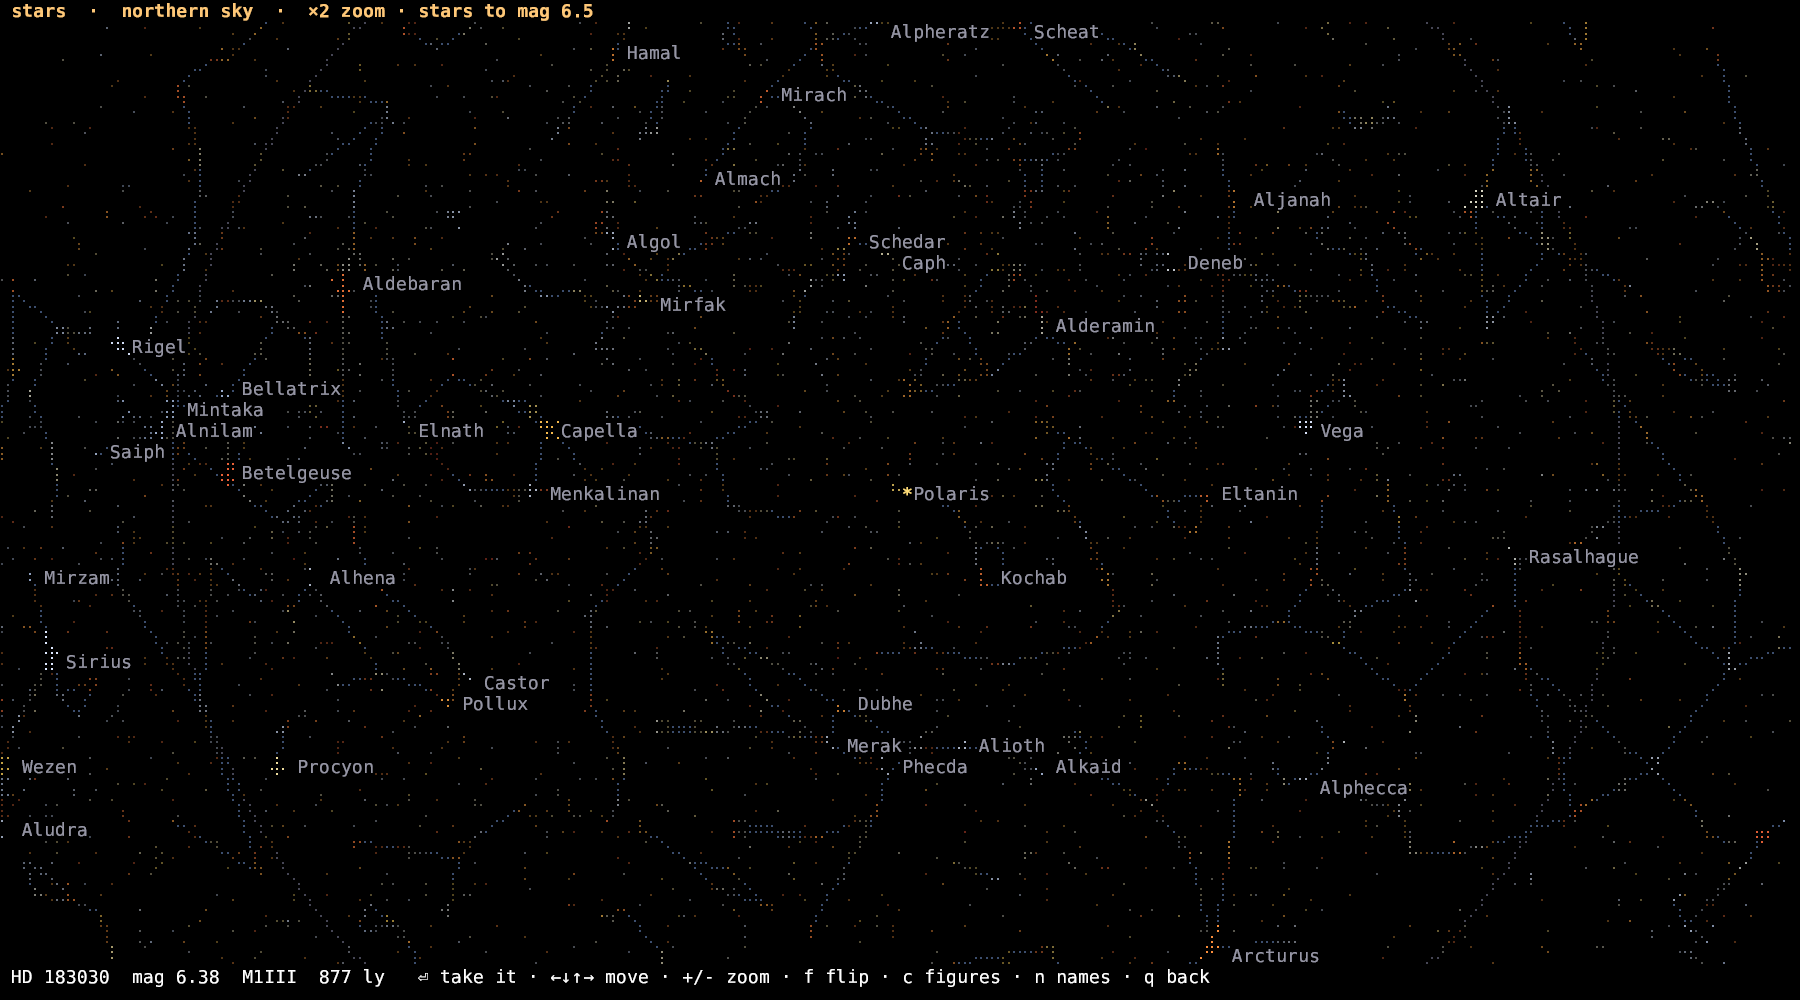
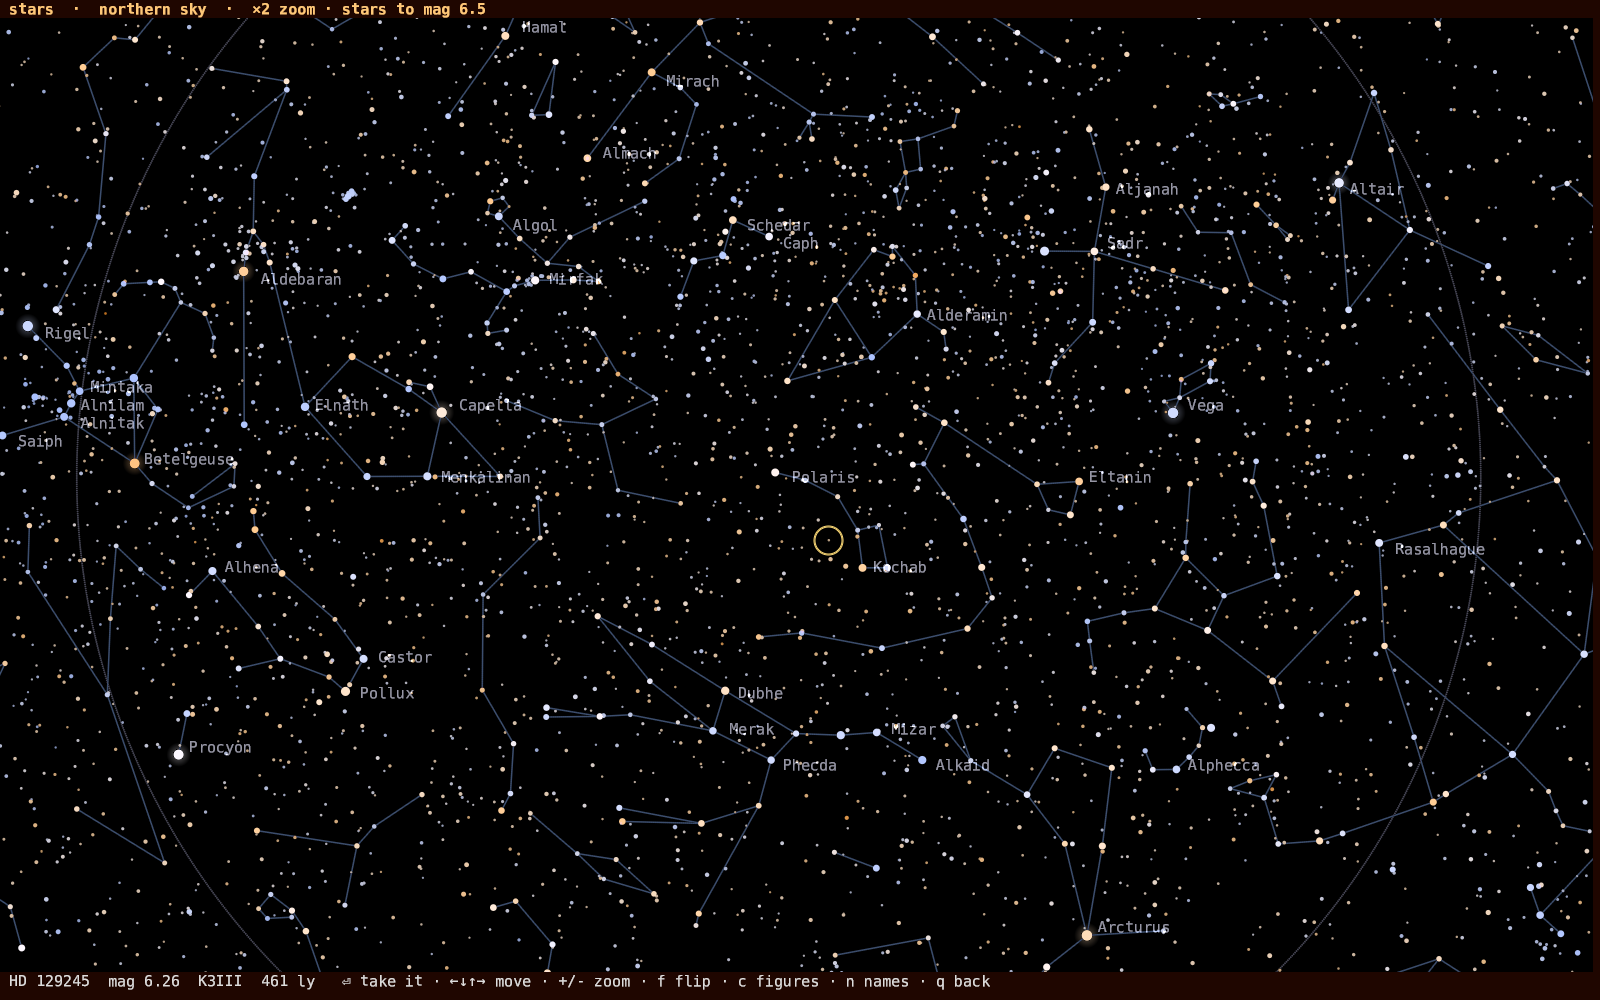
stars 0.2.2: black-body colours, and the diagram in real pixels
Colours come from starmap now: a star is drawn in its own black-body
colour, the class legend in a typical member's, the temperature axis
in the same ramp, so the diagram and the sky agree. Where the terminal
shows images the plot is a picture: the tracks as lines, the stars as
discs sized by brightness, the selected one ringed; the picture comes
down for the list popup, the sky picker and on the way out. Cells stay
elsewhere. The sky picker is starmap's, now in pixels too.

diff --git a/src/main.rs b/src/main.rs
@@ -74,6 +74,8 @@ struct App {
     view: View,
     menu_ix: usize,
     chat: Vec<(String, String)>,
+    /// The diagram as a picture, where the terminal shows images.
+    pixels: std::cell::RefCell<Option<glow::Display>>,
 }
 
 impl App {
@@ -175,6 +177,7 @@ fn main() {
         view: View::Article,
         menu_ix: 0,
         chat: Vec::new(),
+        pixels: Default::default(),
     };
     app.build_cells();
     app.cell_ix = app.cur_cell_stars().iter().position(|&i| i == app.sel).unwrap_or(0);
@@ -377,6 +380,7 @@ fn main() {
                 set_detail(&app, &mut detail, cols);
             }
             "u" => {
+                hide_diagram(&app);
                 Crust::cleanup();
                 println!("stars: rebuilding the catalog …");
                 let result = fetch::fetch_all();
@@ -417,6 +421,7 @@ fn main() {
         }
     }
 
+    hide_diagram(&app);
     Crust::cleanup();
 }
 
@@ -557,6 +562,7 @@ fn pick_list(
         .collect();
     let w = 96.min(cols.saturating_sub(4));
     let h = (lines.len() as u16).min(rows.saturating_sub(6)).max(1);
+    hide_diagram(app);
     let mut pop = Popup::centered(w, h, 253, 236);
     // Open on the star we are already showing, so the list is a place to
     // walk from rather than a fresh start.
@@ -693,21 +699,22 @@ fn select(app: &mut App, new: usize, detail: &mut Pane, cols: u16) {
 
 /// True-ish colors for the spectral classes, from blue O to red M.
 fn class_rgb(c: char) -> (u8, u8, u8) {
-    match c {
-        // Saturated a little past the true colors: on a black terminal
-        // the real A/F whites are indistinguishable from each other.
-        'O' => (120, 150, 255),
-        'B' => (160, 195, 255),
-        'A' => (225, 235, 255),
-        'F' => (255, 245, 200),
-        'G' => (255, 215, 90),
-        'K' => (255, 150, 60),
-        'M' => (255, 90, 60),
-        'C' | 'S' | 'R' => (255, 90, 60), // carbon stars
-        'W' => (200, 210, 255),           // Wolf-Rayet
-        'L' | 'T' | 'Y' => (170, 80, 90), // brown dwarfs
-        _ => (150, 150, 150),
-    }
+    // The black-body colour of a typical star of the class; the odd ones
+    // by what they look like.
+    let teff = match c {
+        'O' => 35000.0,
+        'B' => 15000.0,
+        'A' => 8500.0,
+        'F' => 6500.0,
+        'G' => 5600.0,
+        'K' => 4400.0,
+        'M' => 3300.0,
+        'W' => 45000.0,             // Wolf-Rayet
+        'C' | 'S' | 'R' => 2800.0,  // carbon stars
+        'L' | 'T' | 'Y' => 1600.0,  // brown dwarfs
+        _ => return (150, 150, 150),
+    };
+    starmap::teff_rgb(teff)
 }
 
 const CLASS_LEGEND: [(&str, char); 7] = [
@@ -731,32 +738,10 @@ const SRC_LEGEND: [(&str, (u8, u8, u8)); 3] = [
     ("from magnitude", (170, 150, 200)),
 ];
 
-/// The color a star of this temperature shows, interpolated across the
-/// spectral classes so the temperature axis reads as a real spectrum.
+/// The colour a star of this temperature shows: a black body's, from
+/// starmap, the same as the sky draws.
 fn teff_rgb(teff: f64) -> (u8, u8, u8) {
-    const STOPS: [(f64, (u8, u8, u8)); 7] = [
-        (40000.0, (120, 150, 255)),
-        (20000.0, (160, 195, 255)),
-        (9700.0, (225, 235, 255)),
-        (7200.0, (255, 245, 200)),
-        (5800.0, (255, 215, 90)),
-        (4400.0, (255, 150, 60)),
-        (3000.0, (255, 90, 60)),
-    ];
-    let t = teff.clamp(3000.0, 40000.0);
-    for w in STOPS.windows(2) {
-        let (t0, c0) = w[0];
-        let (t1, c1) = w[1];
-        if t <= t0 && t >= t1 {
-            let f = (t0.ln() - t.ln()) / (t0.ln() - t1.ln());
-            return (
-                (c0.0 as f64 + (c1.0 as f64 - c0.0 as f64) * f) as u8,
-                (c0.1 as f64 + (c1.1 as f64 - c0.1 as f64) * f) as u8,
-                (c0.2 as f64 + (c1.2 as f64 - c0.2 as f64) * f) as u8,
-            );
-        }
-    }
-    STOPS[0].1
+    starmap::teff_rgb(teff)
 }
 
 fn gradient(t: f64) -> (u8, u8, u8) {
@@ -829,7 +814,8 @@ fn star_rgb(app: &App, s: &Star) -> (u8, u8, u8) {
             (Src::Spectral, _) | (Src::Color, _) => SRC_LEGEND[2].1,
             _ => (110, 110, 110),
         },
-        _ => class_rgb(s.class()),
+        // Its own temperature, as a black body shows it.
+        _ => starmap::teff_rgb(s.teff),
     }
 }
 
@@ -937,6 +923,54 @@ fn cell_of(x: f64, y: f64) -> Option<(u16, u16)> {
     Some((PLOT_Y + cy as u16, PLOT_X + cx as u16))
 }
 
+/// Take the diagram's picture down; redraw_diagram puts it back.
+fn hide_diagram(app: &App) {
+    if let Some(d) = app.pixels.borrow_mut().as_mut() {
+        d.clear_all();
+    }
+}
+
+/// The diagram as a picture the size of the plot box: the tracks as
+/// lines, the stars as discs sized by brightness in the mode's colour,
+/// the selected one ringed. See-through between them.
+fn diagram_canvas(app: &App, cell: (u16, u16)) -> glow::Canvas {
+    let mut c = glow::Canvas::with_cell(PLOT_W, PLOT_H, cell);
+    c.see_through();
+    let (w, h) = (c.w as f64, c.h as f64);
+    let dot = (cell.0.max(1) as f64 / 2.0 + cell.1.max(1) as f64 / 4.0) / 2.0;
+    let at = |x: f64, y: f64| (x * (w - 1.0) + 0.5, (1.0 - y) * (h - 1.0) + 0.5);
+    if app.track > 0 {
+        for (ti, tr) in tracks::TRACKS.iter().enumerate() {
+            if !(app.track == tracks::TRACKS.len() + 1 || app.track == ti + 1) {
+                continue;
+            }
+            let pts: Vec<(f64, f64)> = tr
+                .polyline()
+                .into_iter()
+                .map(|(lt, ll)| at((lt - LOG_T_HOT) / (LOG_T_COOL - LOG_T_HOT), (ll - LOG_L_MIN) / (LOG_L_MAX - LOG_L_MIN)))
+                .collect();
+            for pair in pts.windows(2) {
+                c.line(pair[0], pair[1], dot * 0.4, tr.color, 0.85);
+            }
+        }
+    }
+    // Faint first, so the bright ones paint over.
+    for st in app.stars.iter().rev() {
+        let (x, y) = plot_pos(st);
+        let p = at(x, y);
+        let r = (dot * (0.30 + 0.10 * (6.0 - st.mag).max(0.0))).min(dot * 1.5);
+        c.disc(p.0, p.1, r, star_rgb(app, st), 1.0);
+    }
+    let sel = &app.stars[app.sel];
+    let (x, y) = plot_pos(sel);
+    let p = at(x, y);
+    let r = (dot * (0.30 + 0.10 * (6.0 - sel.mag).max(0.0))).min(dot * 1.5);
+    c.ring(p.0, p.1, r + 2.5, (255, 255, 255), 1.0);
+    c.ring(p.0, p.1, r + 3.5, (255, 255, 255), 1.0);
+    c.settle_alpha();
+    c
+}
+
 fn redraw_diagram(app: &App, cols: u16) {
     if cols < PLOT_X + PLOT_W {
         print!("{}{}", move_to(PLOT_Y, 2), style::dim("terminal too narrow for the diagram"));
@@ -949,6 +983,17 @@ fn redraw_diagram(app: &App, cols: u16) {
     for r in 0..PLOT_H {
         s.push_str(&move_to(PLOT_Y + r, PLOT_X));
         s.push_str(&blank);
+    }
+    let pixels = app.pixels.borrow_mut().get_or_insert_with(glow::Display::new).supported();
+    if pixels {
+        print!("{s}");
+        std::io::stdout().flush().ok();
+        let canvas = diagram_canvas(app, glow::get_cell_size());
+        if let Some(d) = app.pixels.borrow_mut().as_mut() {
+            d.clear_all();
+            d.show_canvas(&canvas, PLOT_X, PLOT_Y);
+        }
+        return;
     }
 
     // Schematic evolutionary tracks go underneath the stars.
@@ -1069,6 +1114,7 @@ fn help_line() -> String {
 /// everything the axes need. Guests live for the session, so the shelf
 /// on disk stays the 461 stars with articles behind them.
 fn sky_pick(app: &mut App) -> Option<usize> {
+    hide_diagram(app);
     let start = starmap::View::new(starmap::Projection::Hemisphere { north: true });
     let picked = starmap::pick(start, starmap::Opts::default(), "stars")?;
     let p = picked.star;

diff --git a/README.md b/README.md
@@ -10,23 +10,26 @@ Every named star with a measured parallax, plotted where it belongs on the HR di
 
 ![The HR diagram](img/screenshot-hr.png)
 
+In glass, or any terminal that shows images, the diagram and the sky are
+real pixels; elsewhere cells and braille.
+
 ## Features
 
 - **461 named stars** from the HYG catalog, plotted in log Teff against log luminosity
 - **Walk the diagram**: the arrow keys move cell by cell, so you can climb the main sequence and cross into the giants. `Tab` cycles the stars sharing a cell, `Enter` opens them as a pick list you walk with ↓↑ and choose from
 - **The whole catalog as a list** (`L`), ordered by whatever the color mode is asking: hottest, nearest, brightest, heaviest, largest. `e` writes the same ordering to `~/stars-by-<mode>.csv`, every column included
-- **Seven color modes** (keys 1-7, `m` for the menu, or Ctrl+←/→): spectral class in true star colors, luminosity class, distance, apparent magnitude, mass, radius, and data source
+- **Seven color modes** (keys 1-7, `m` for the menu, or Ctrl+←/→): each star's own black-body colour, luminosity class, distance, apparent magnitude, mass, radius, and data source
 - **Evolutionary tracks** (`t`): schematic paths for 1, 5 and 15 M☉, with their stages named below the diagram, from ZAMS through the giant branch to a white dwarf or a supernova
 - **Honest about its numbers**: measured values come from Wikidata, the rest are derived from the spectral type and absolute magnitude, and mode 7 colors the diagram by which is which
 - **The right Wikipedia article**: a star's IAU name is often a word first (Tupi is a people, Anser a genus of geese, Pollux a demigod), so each candidate page is checked before it is kept, falling through to `<name> (star)` and the HD / HIP designations. Cached locally for 445 of the 461
-- **Pick a star off the sky** (`M`): the celestial sphere in braille, 9,096 stars from the Bright Star Catalogue, `f` flips between the northern and southern half, `+`/`-` zoom, and `Enter` brings the star under the crosshair back to the diagram. One the catalog knows arrives with its article; anything else joins as a guest, placed from its Hipparcos distance and Bright Star colour. Drawn by [starmap](https://github.com/isene/starmap)
+- **Pick a star off the sky** (`M`): the celestial sphere, 9,096 stars from the Bright Star Catalogue, `f` flips between the northern and southern half, `+`/`-` zoom, and `Enter` brings the star under the crosshair back to the diagram. One the catalog knows arrives with its article; anything else joins as a guest, placed from its Hipparcos distance and Bright Star colour. Drawn by [starmap](https://github.com/isene/starmap)
 - **Ask Claude** (`c`) about the star you are looking at, with its data and article as context
 - **Zero idle cost**: event-driven, no timers, no polling
 - **Offline**: one fetch, then everything is local
 
 ### The sky
 
-Press `M` and the celestial sphere comes up in braille. Walk it with the
+Press `M` and the celestial sphere comes up. Walk it with the
 arrows, `f` flips between the northern and southern half, `+`/`-` zoom
 about the crosshair, and the star under it is named at the bottom with
 its magnitude, spectral type and distance. `Enter` takes it back to the
